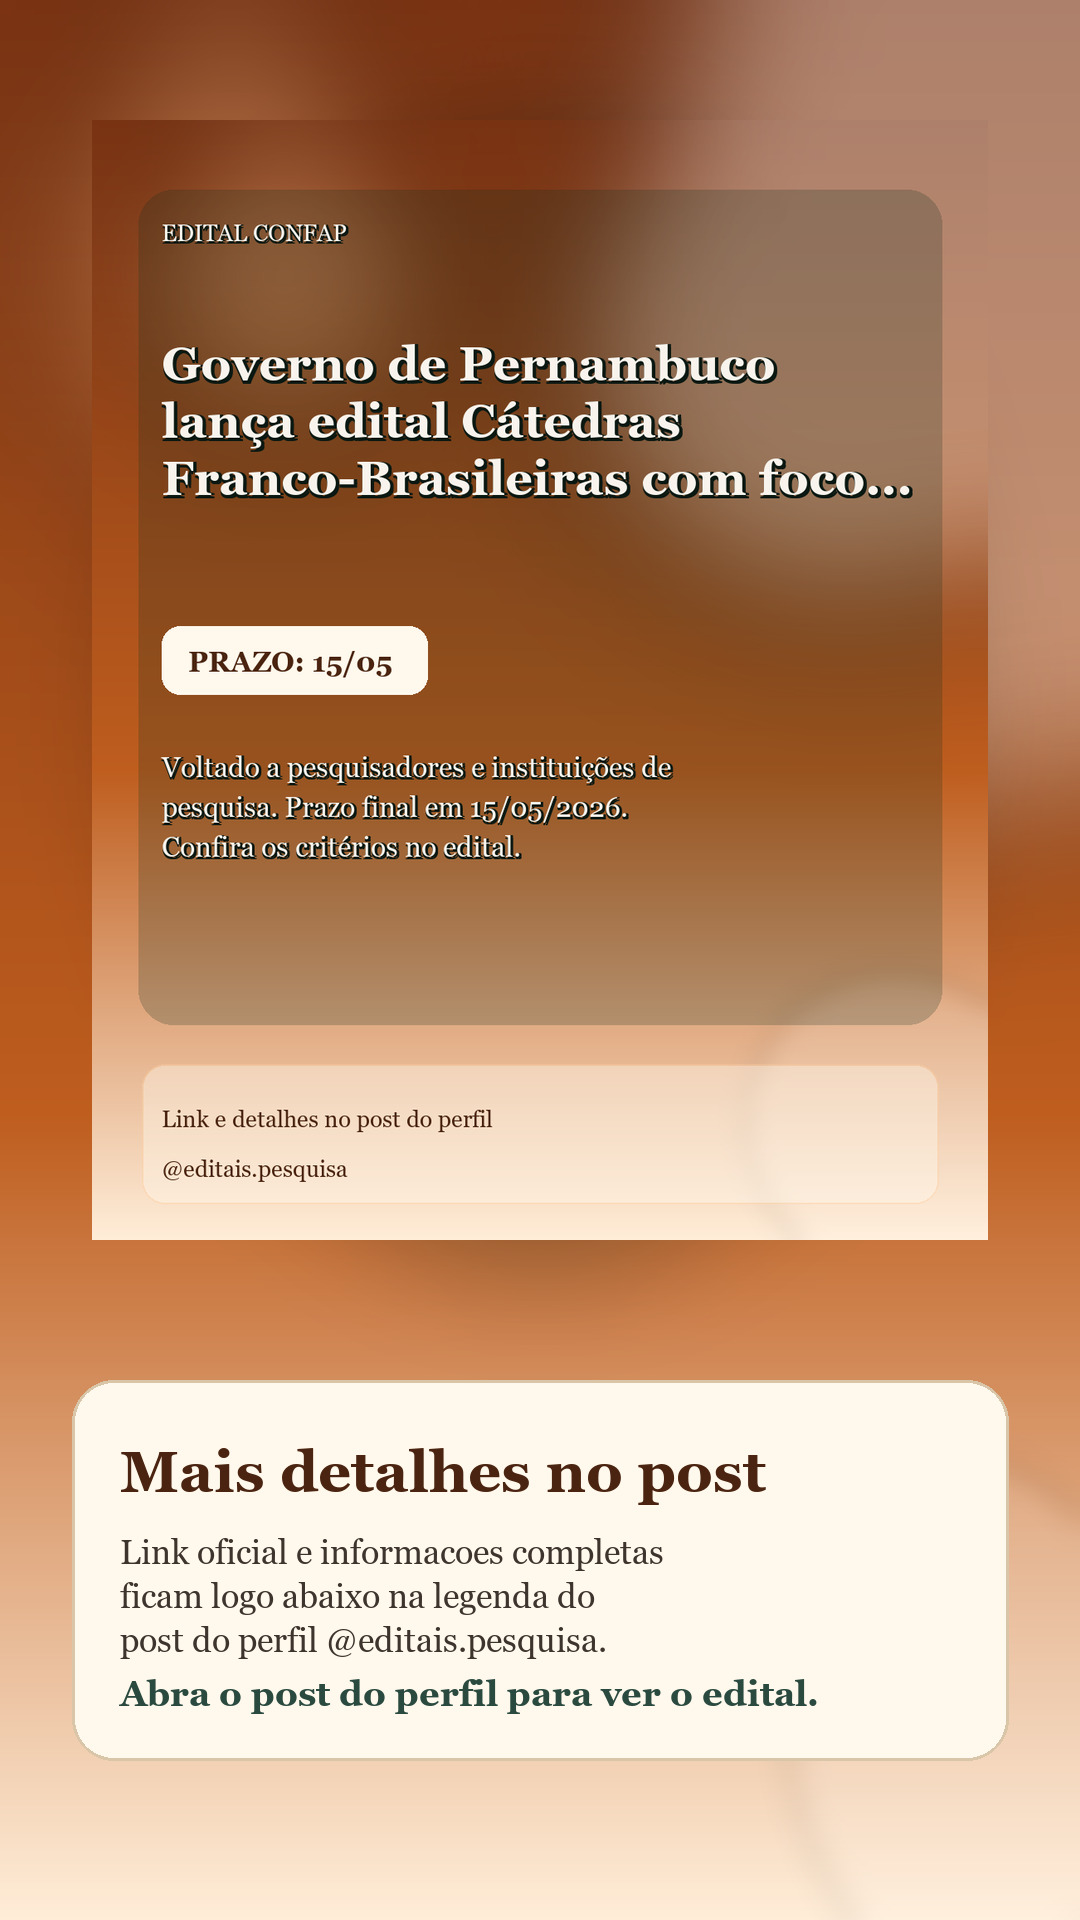
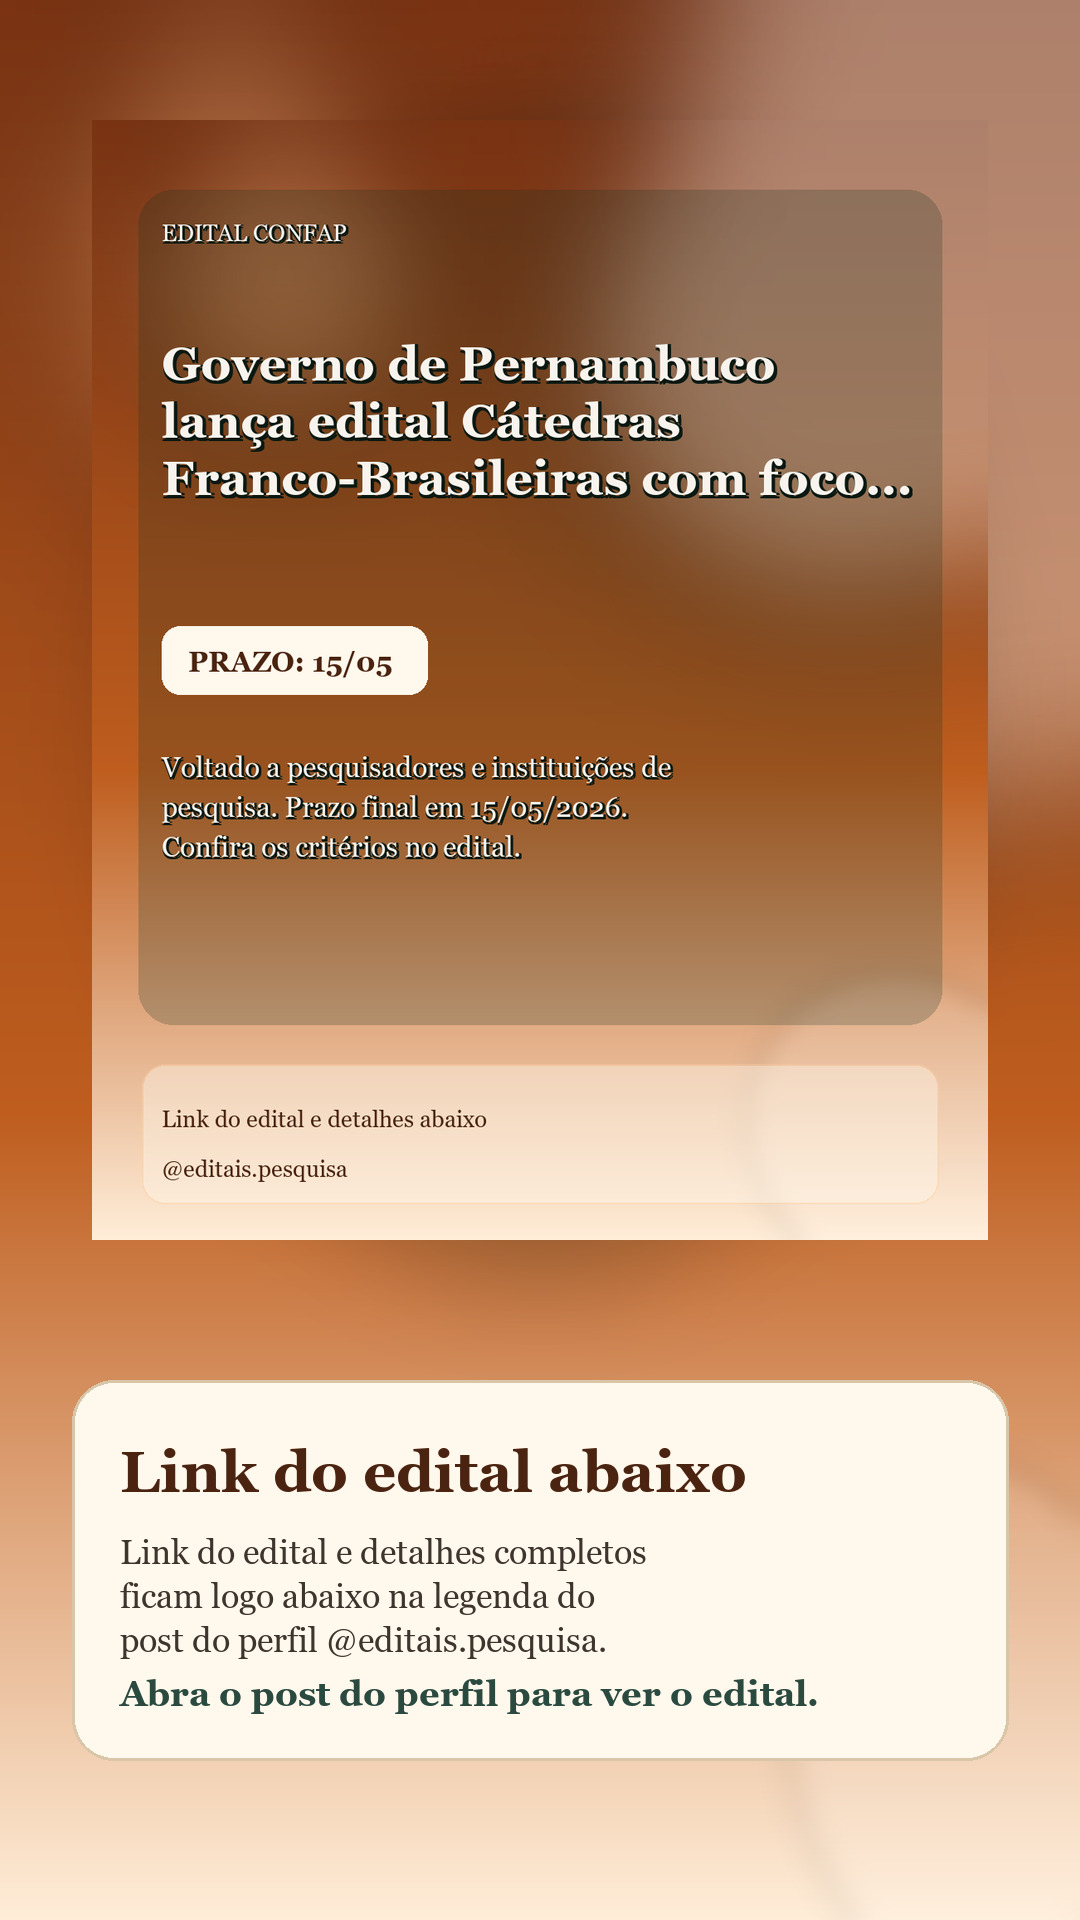
Refine feed and story footer copy

Changed region(s): [[0.1222, 0.75, 0.7028, 0.8125], [0.2139, 0.5625, 0.4583, 0.5938]]

diff --git a/src/services/instagram_service.py b/src/services/instagram_service.py
@@ -318,7 +318,7 @@ class InstagramService:
         header = edital.card_header or f"EDITAL {edital.fonte}"
         deadline = edital.card_deadline or "PRAZO A DEFINIR"
         handle = edital.card_handle or "@editais.pesquisa"
-        footer_note = edital.card_footer_note or "Link e detalhes no post do perfil"
+        footer_note = edital.card_footer_note or "Link do edital e detalhes abaixo"
 
         image = self._build_background(palette, self.FEED_WIDTH, self.FEED_HEIGHT)
         image = self._apply_feed_content_panels(image, palette)
@@ -386,10 +386,10 @@ class InstagramService:
         body_font = self._load_font("regular", 34)
         handle_font = self._load_font("bold", 36)
 
-        draw.text((120, 1438), "Mais detalhes no post", font=title_font, fill=self._hex_to_rgb(palette["deadline_text"]))
+        draw.text((120, 1438), "Link do edital abaixo", font=title_font, fill=self._hex_to_rgb(palette["deadline_text"]))
 
         story_lines = [
-            "Link oficial e informacoes completas",
+            "Link do edital e detalhes completos",
             "ficam logo abaixo na legenda do",
             "post do perfil @editais.pesquisa.",
         ]

diff --git a/src/services/render_service.py b/src/services/render_service.py
@@ -47,7 +47,7 @@ class RenderService:
                 self._display_text(edital.link),
                 '',
                 'Salve este post para consultar depois e compartilhe com quem pode aproveitar esta oportunidade.',
-                'No post do perfil, o link oficial e mais informações ficam logo abaixo na legenda.',
+                'No post, o link do edital e os detalhes ficam logo abaixo na legenda.',
                 '',
                 self._build_hashtags(edital),
             ]
@@ -61,7 +61,7 @@ class RenderService:
             'card_deadline': self._build_card_deadline(edital.data_expiracao),
             'card_summary': self._build_card_summary(edital),
             'card_handle': '@editais.pesquisa',
-            'card_footer_note': 'Link e detalhes no post do perfil',
+            'card_footer_note': 'Link do edital e detalhes abaixo',
         }
 
     def _format_date(self, value: str | None) -> str:
